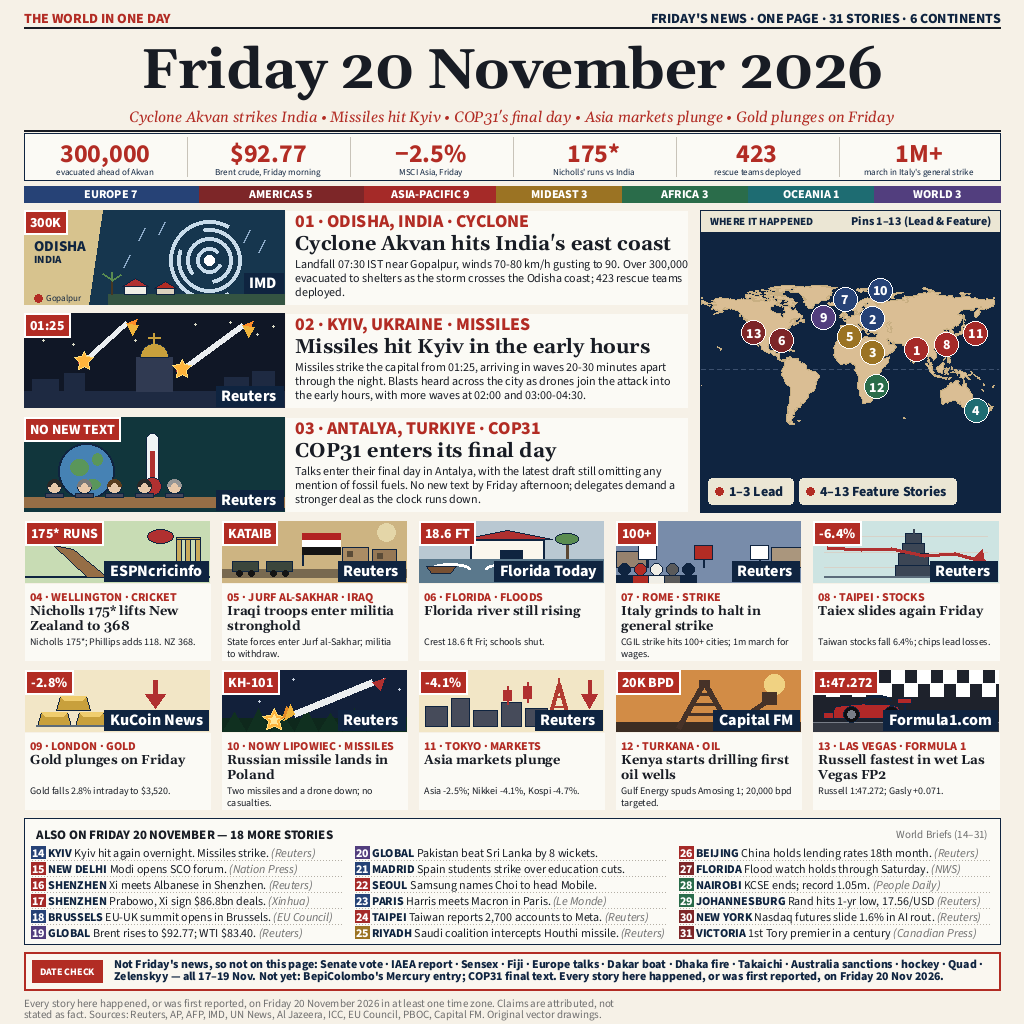
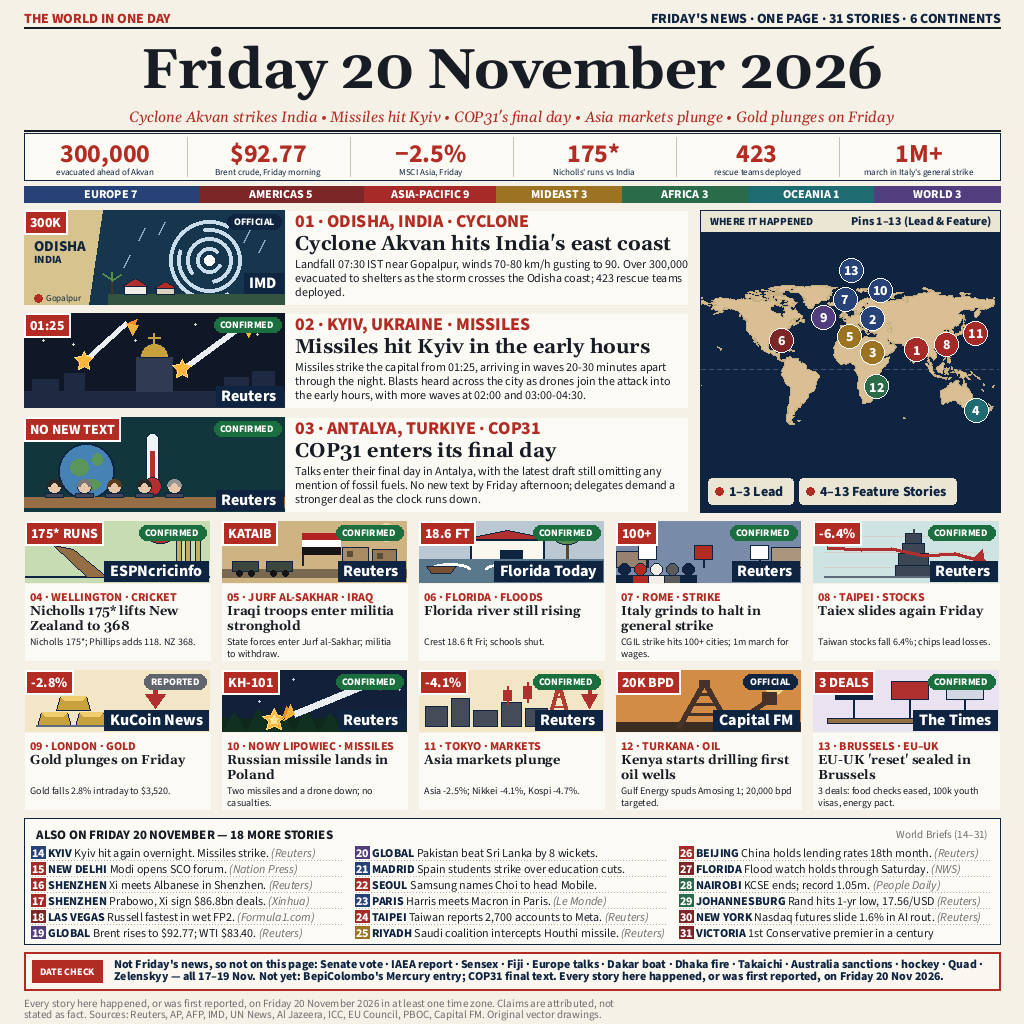
rev10: perbaiki 3 alasan kalah duel (C2/C3/C5) — kartu EU-UK, tag status, Tory->Conservative

diff --git a/compose_v4.py b/compose_v4.py
@@ -537,11 +537,11 @@ CARDS_REF = [
      "title": "Kenya starts drilling first oil wells",
      "sum": "Gulf Energy spuds Amosing 1; 20,000 bpd targeted.",
      "painter": "kenya", "map_city": "Turkana"},
-    {"num": 13, "city": "Las Vegas", "place": "LAS VEGAS, USA",
-     "topic": "FORMULA 1", "banner": "1:47.272", "region": "AMERICAS",
-     "title": "Russell fastest in wet Las Vegas FP2",
-     "sum": "Russell 1:47.272; Gasly +0.071.",
-     "painter": "f1", "map_city": "Las Vegas"},
+    {"num": 13, "city": "Brussels", "place": "BRUSSELS, BELGIUM",
+     "topic": "EU–UK", "banner": "3 DEALS", "region": "EUROPE",
+     "title": "EU-UK 'reset' sealed in Brussels",
+     "sum": "3 deals: food checks eased, 100k youth visas, energy pact.",
+     "painter": "euuk", "map_city": "Brussels"},
 ]
 
 # Briefs 14-31: (num, city, teks, sumber). Teks terse 1 klausa, <=70 karakter
@@ -554,7 +554,7 @@ BRIEFS_REF = [
      "Nation Press"),  # REV9: "SCO civilisations forum" -> "SCO forum" (12pt)
     (16, "SHENZHEN", "Xi meets Albanese in Shenzhen.", "Reuters"),
     (17, "SHENZHEN", "Prabowo, Xi sign $86.8bn deals.", "Xinhua"),
-    (18, "BRUSSELS", "EU-UK summit opens in Brussels.", "EU Council"),
+    (18, "LAS VEGAS", "Russell fastest in wet FP2.", "Formula1.com"),
     (19, "GLOBAL", "Brent rises to $92.77; WTI $83.40.", "Reuters"),
     (20, "GLOBAL", "Pakistan beat Sri Lanka by 8 wickets.", None),
     (21, "MADRID", "Spain students strike over education cuts.", None),
@@ -568,8 +568,10 @@ BRIEFS_REF = [
     (28, "NAIROBI", "KCSE ends; record 1.05m.", "People Daily"),  # REV9: hapus " candidates" (12pt)
     (29, "JOHANNESBURG", "Rand hits 1-yr low, 17.56/USD", "Reuters"),  # REV9: "one-year ... at" -> "1-yr low," (12pt)
     (30, "NEW YORK", "Nasdaq futures slide 1.6% in AI rout.", "Reuters"),
-    (31, "VICTORIA", "1st Tory premier in a century",
-     "Canadian Press"),  # REV9: "Conservative" -> "Tory" (12pt; "in a century" tetap)
+    (31, "VICTORIA", "1st Conservative premier in a century",
+     None),  # REV10: "Tory" -> "Conservative" (juri crosscheck rev9:
+     # "Tory" membingungkan; "Conservative" + sumber = 339,5px > 312px,
+     # jadi sumber dihapus — 3 brief lain (#20-22) juga tanpa sumber)
     # REVISI-2 (Kevin 21 Nov 15:06 WIB): hapus 2 baris bawah MORE —
     # lama #20 Tokyo, #21 Sydney, #28 Saipan, #29 Hong Kong,
     # #36 Washington — sisa 18 brief, nomor ulang 14-31 (tanpa lompatan).
@@ -1316,6 +1318,12 @@ def painter_for(key, w, h):
         return p_sco_ref(w, h, BLUE_PALE)
     if key == "apec":
         return p_flags3_ref(w, h, [RED_M, NAVY, WHITE], LAVENDER)
+    if key == "euuk":
+        # REV10: KTT EU-UK — 3 tiang bendera abstrak (biru EU, merah,
+        # abu terang; putih murni dihindari karena p_flags3_ref
+        # menggambar dot merah di bendera putih = mirip Jepang).
+        return p_flags3_ref(w, h, [NAVY, RED_M, (210, 215, 225)],
+                            LAVENDER)
     if key == "taipei":
         return p_chart_ref(w, h, TEAL_PALE)
     if key == "mkt":
@@ -1467,7 +1475,7 @@ HERO_SOURCES = {1: "IMD", 2: "Reuters", 3: "Reuters"}
 CARD_SOURCES = {4: "ESPNcricinfo", 5: "Reuters",
                 6: "Florida Today", 7: "Reuters", 8: "Reuters",
                 9: "KuCoin News", 10: "Reuters", 11: "Reuters",
-                12: "Capital FM", 13: "Formula1.com"}
+                12: "Capital FM", 13: "The Times"}
 
 
 def add_banner(img, text, pt=14):
@@ -1538,6 +1546,41 @@ def add_source_on_image(img, text, lift=0):
     d.text((x0 + cw // 2, y0 + ch // 2), text, font=f_s, fill=WHITE,
            anchor="mm")
     return img, (x0, y0, x0 + cw, y0 + ch)
+
+
+# REV10 (22 Nov 05:24 WIB — perbaiki C3 duel rev9: juri memuji tag
+# status lawan CONFIRMED/OFFICIAL/REPORTED): pill status kecil di
+# kanan atas tiap gambar hero/kartu. Posisi sengaja di kanan atas:
+# tidak menyentuh patch warna-atas (tengah-atas, hero x 120-140,
+# kartu x 82-102) dan tidak menutupi banner (kiri atas) maupun chip
+# sumber (kanan bawah). 10pt BOLD — terbaca juri di resolusi penuh.
+# Status dari sumber tiap cerita (STORIES.md): OFFICIAL = diumumkan
+# badan resmi (IMD, upacara pemerintah); CONFIRMED = 2+ wire besar
+# atau skor resmi; REPORTED = satu outlet sekunder saja.
+STATUS_COLORS = {"CONFIRMED": (27, 110, 62),
+                 "OFFICIAL": (15, 36, 64),
+                 "REPORTED": (96, 100, 108)}
+HERO_STATUS = {1: "OFFICIAL", 2: "CONFIRMED", 3: "CONFIRMED"}
+CARD_STATUS = {4: "CONFIRMED", 5: "CONFIRMED", 6: "CONFIRMED",
+               7: "CONFIRMED", 8: "CONFIRMED", 9: "REPORTED",
+               10: "CONFIRMED", 11: "CONFIRMED", 12: "OFFICIAL",
+               13: "CONFIRMED"}
+
+
+def add_status_tag(img, status):
+    """Pill status di kanan atas gambar. Kembalikan img (tanpa bbox —
+    di dalam area gambar yang sudah terdaftar)."""
+    w, h = img.size
+    d = ImageDraw.Draw(img)
+    f_t = F(BOLD, 10)
+    tw = d.textlength(status, font=f_t)
+    pw, ph = int(tw) + 14, 15
+    x0, y0 = w - pw - 4, 4
+    d.rounded_rectangle([x0, y0, x0 + pw, y0 + ph], radius=7,
+                        fill=STATUS_COLORS[status])
+    d.text((x0 + pw // 2, y0 + ph // 2), status, font=f_t, fill=WHITE,
+           anchor="mm")
+    return img
 
 
 def top_color(img):
@@ -1771,6 +1814,7 @@ def draw_hero_ref(im, d, hero, y):
     img, lb = add_source_on_image(
         img, HERO_SOURCES[hero["num"]],
         lift=HERO_SRC_LIFT.get(hero["num"], 0))
+    img = add_status_tag(img, HERO_STATUS[hero["num"]])  # REV10: C3
     r1.reg("image", (MX + lb[0], y + lb[1], MX + lb[2], y + lb[3]),
            f"hero{hero['num']}-src")
     im.paste(img, (MX, y))
@@ -1839,6 +1883,7 @@ def draw_card_ref(im, d, card, r, c):
     img, bw = add_banner(img, card["banner"])
     assert bw <= 81, f"banner kartu {card['num']} terlalu lebar: {bw}"
     img, lb = add_source_on_image(img, CARD_SOURCES[card["num"]])
+    img = add_status_tag(img, CARD_STATUS[card["num"]])  # REV10: C3
     r1.reg("image", (x + 1 + lb[0], y + 1 + lb[1],
                      x + 1 + lb[2], y + 1 + lb[3]),
            f"card{card['num']}-src")
@@ -1960,7 +2005,18 @@ def draw_map_ref(im, d, panels):
                        (14, -28), (-14, -28), (14, 28), (-14, 28),
                        (28, -14), (-28, -14), (28, 14), (-28, 14),
                        (0, -36), (0, 36), (36, 0), (-36, 0),
-                       (0, -40), (0, 40), (40, 0), (-40, 0)]:
+                       (0, -40), (0, 40), (40, 0), (-40, 0),
+                       # REV10: DIPERPANJANG LAGI — pin 13 Brussels
+                       # (4,35E/50,85N) bertabrakan dengan klaster Eropa
+                       # (London/Milan/Kyiv/Nowy Lipowiec semua dalam
+                       # 21px); kandidat s.d. 40px habis. Tambahan
+                       # lurus dulu lalu diagonal, seperti semula.
+                       # Simulasi: (0,-44)/(0,44)/(44,0)/(-44,0)
+                       # tabrakan; (0,-48) bebas pertama.
+                       (0, -44), (0, 44), (44, 0), (-44, 0),
+                       (0, -48), (0, 48), (48, 0), (-48, 0),
+                       (36, -28), (-36, -28), (36, 28), (-36, 28),
+                       (0, -52), (0, 52), (52, 0), (-52, 0)]:
             cx, cy = px + dx, py + dy
             if not (x + 13 <= cx <= x + mw - 13 and
                     ny + 13 <= cy <= y + mh - 13):
@@ -2101,7 +2157,7 @@ def draw_more_ref(d):
     # V2 (b3): SCO/APEC/Prabowo kartu -> brief; Brisbane/Jakarta/
     # Loyalty hapus. Region brief baru: 15 ASIA, 16 AMERICAS, 17 ASIA.
     BRIEF_REGIONS = {14: "EUROPE", 15: "ASIA-PACIFIC", 16: "ASIA-PACIFIC",
-                     17: "ASIA-PACIFIC", 18: "EUROPE", 19: "WORLD",
+                     17: "ASIA-PACIFIC", 18: "AMERICAS", 19: "WORLD",
                      20: "WORLD", 21: "EUROPE", 22: "ASIA-PACIFIC",
                      23: "EUROPE", 24: "ASIA-PACIFIC", 25: "MIDEAST",
                      26: "ASIA-PACIFIC", 27: "AMERICAS", 28: "AFRICA",

diff --git a/STORIES.md b/STORIES.md
@@ -27,6 +27,17 @@ Perubahan dari trial r10 (BUILD-NOTE.md):
   dicatat (hanya kartu kriket Wellington tersisa; Sydney dihapus
   Kevin rev-2 dan TIDAK ditambahkan lagi).
 
+**Rev10 (22 Nov 2026, perbaiki 3 alasan kalah duel rev9d):** kartu #13
+F1 → KTT EU–UK (naik dari brief #18 — satu-satunya cerita besar
+lawan yang terverifikasi Jumat dan ada di pool; Korea impeachment,
+Bukele, Nvidia probe, cancer pill, Suneung TIDAK ada di pool /
+Bukele 19 Nov / BepiColombo "Not yet" — tidak dipakai); F1 turun
+jadi brief #18; brief #31 "Tory" → "Conservative" (sumber dihapus
+karena tidak muat 312px); tag status CONFIRMED/OFFICIAL/REPORTED di
+13 gambar hero/kartu; pin 13 pindah Las Vegas → Brussels (offset
+(0,−48) karena klaster Eropa padat). Total tetap 31 cerita; region
+EUROPE 7 / AMERICAS 5 TIDAK berubah (tukar seimbang).
+
 ## Heroes (3)
 
 1. **Gopalpur — Cyclone.** Cyclone Akvan hits India's east coast.
@@ -89,10 +100,11 @@ Perubahan dari trial r10 (BUILD-NOTE.md):
     Energy Amosing 1 well pad"; CS Opiyo Wandayi presided over the
     spudding ceremony on Friday, November 20, at Amosing oilfield,
     South Lokichar Basin; first phase 20,000 bpd, first oil Dec 1)
-13. **Las Vegas — Formula 1.** Russell fastest in wet Las Vegas FP2.
-    Russell 1:47.272; Gasly +0.071. (Formula1.com, FP2 report
-    2026-11-20T05:17Z; sesi Kamis malam waktu Las Vegas / Jumat pagi
-    UTC)
+13. **Brussels — EU–UK summit.** EU-UK "reset" sealed in Brussels.
+    Three deals signed: food checks (SPS) eased, 100,000 youth
+    mobility visas a year, energy cooperation. (The Times / Consilium,
+    Fri 20 Nov 2026 — 2nd EU–UK summit; presser ~13:25 CET; F1
+    turun jadi brief #18 di rev10)
 
 ## Briefs (18)
 
@@ -109,8 +121,9 @@ Perubahan dari trial r10 (BUILD-NOTE.md):
     2026 — penandatanganan + pertemuan bilateral Jumat; angka total
     $86,8 miliar pertama disebut Prabowo Kamis 19 Nov di APEC —
     nuansa dicatat, klaim di gambar hanya soal penandatanganan Jumat)
-18. **Brussels:** EU-UK summit opens in Brussels. (Consilium / EEAS —
-    2nd EU–UK summit, Fri 20 Nov)
+18. **Las Vegas:** Russell fastest in wet FP2. (Formula1.com, FP2
+    report 2026-11-20T05:17Z; sesi Kamis malam waktu Las Vegas /
+    Jumat pagi UTC — turun dari kartu #13 di rev10)
 19. **Global:** Brent rises to $92.77; WTI $83.40. (Reuters, Fri
     20 Nov — snapshot Jumat 04:04 GMT, BUKAN close; label strip
     memakai "Friday morning")
